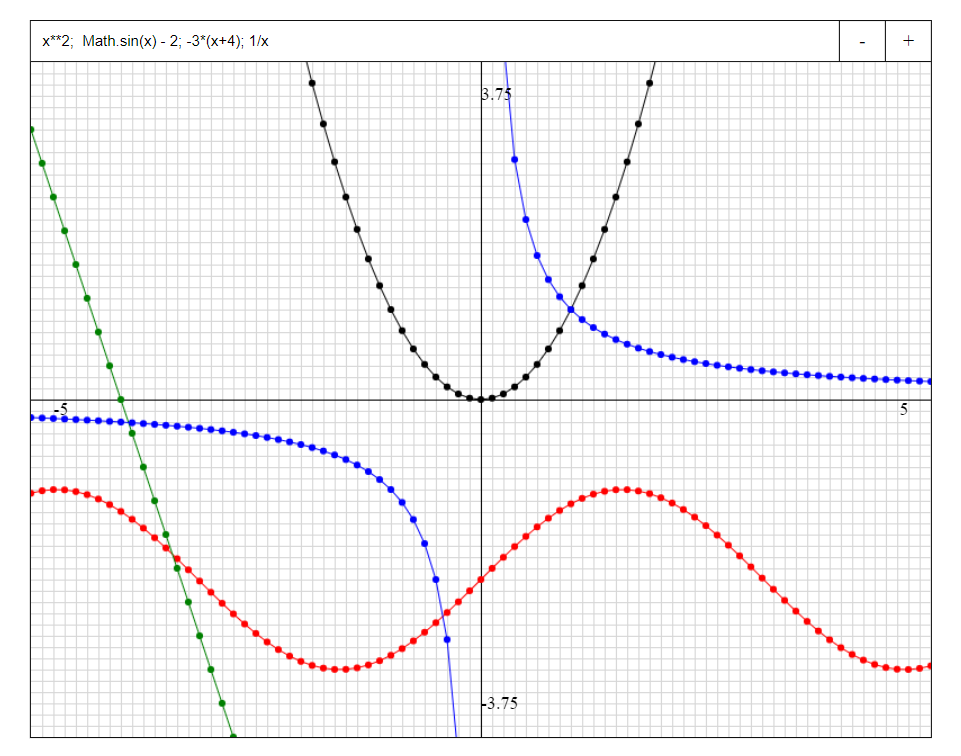
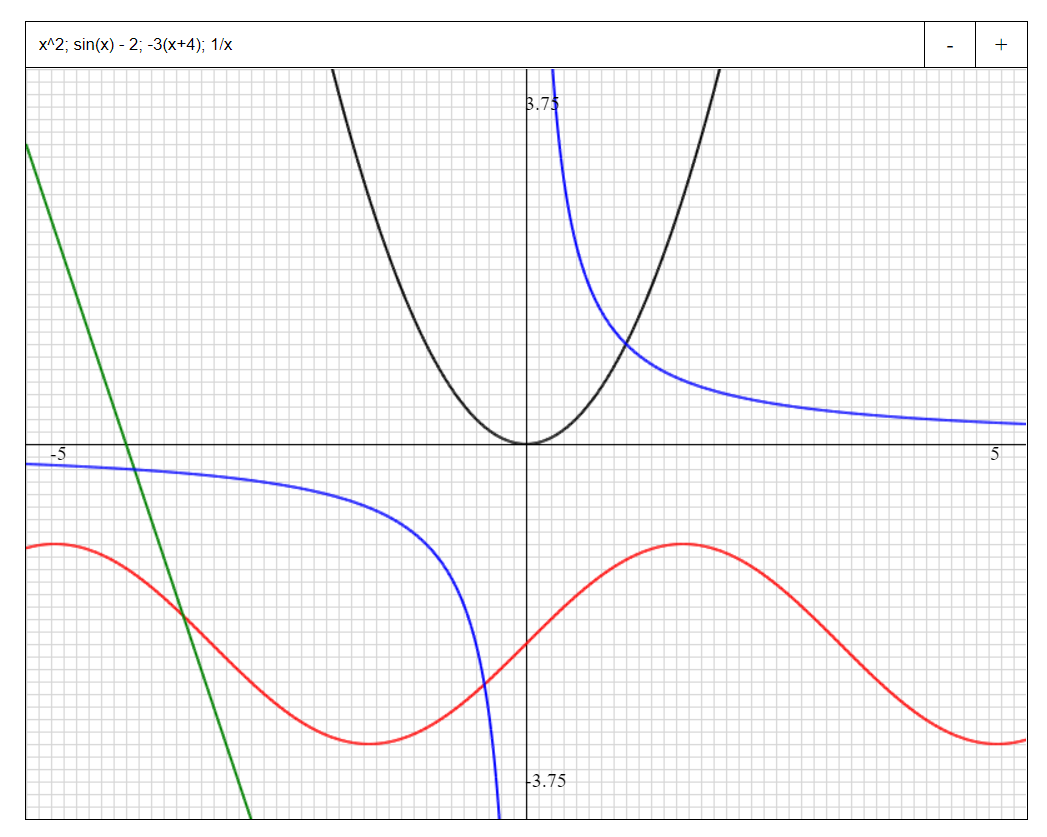
Update layout and functions.png

Changed region(s): [[0.0, 0.0304, 0.999, 1.0], [0.9677, 0.1521, 0.999, 0.3347]]

diff --git a/js/grapher.js b/js/grapher.js
@@ -2,8 +2,9 @@ class Grapher {
     constructor (params = {}) {
         // Parent element
         this.parent = params.parent
-        this.height = params.height
+        this.height = params.height 
         this.width = params.width
+        console.log(this.width, this.height)
         // DOM elements
         this.create()
         this.input = document.getElementById(`${this.parent.id}-input`)
@@ -19,7 +20,7 @@ class Grapher {
         // Graph properties
         this.box_size = 10
         this.x_range = { min: -10, max: 10 }
-        this.y_range = { min: -10, max: 10 }
+        this.y_range = { min: -10 * (this.height / this.width), max: 10 * (this.height / this.width) }
         this.function_intervals = 1000
         this.field_intervals = 20
         this.slope_intervals = { x: this.width / this.field_intervals, y: this.height / this.field_intervals }
@@ -59,8 +60,8 @@ class Grapher {
         // Graph
         const graph = document.createElement("div")
         graph.className = "grapher-graph"
-        graph.style.height = this.height
-        graph.style.width = this.width
+        graph.style.height = `${this.height}px`
+        graph.style.width = `${this.width}px`
         // Canvas
         const canvas = document.createElement("canvas")
         canvas.className = "grapher-canvas"

diff --git a/index.html b/index.html
@@ -5,11 +5,12 @@
 	<meta charset="utf-8">
 	<meta name="viewport" content="width=device-width">
 	<title>Grapher</title>
-	<link href="style.css" rel="stylesheet" type="text/css" />
+    <link href="/css/grapher.css" rel="stylesheet" type="text/css" />
+	<link href="/css/main.css" rel="stylesheet" type="text/css" />
     <script src = "/lib/math.js"></script>
-    <script src="utility.js"></script>
-    <script src="grapher.js"></script>
-    <script src="main.js"></script>
+    <script src="/js/utility.js"></script>
+    <script src="/js/grapher.js"></script>
+    <script src="/js/main.js"></script>
 </head>
 
 <body>

diff --git a/js/main.js b/js/main.js
@@ -2,11 +2,11 @@ document.addEventListener("DOMContentLoaded", () => {
     const graph_1 = new Grapher({
         parent: document.getElementById("graph-1"),
         height: 600,
-        width: 800,
+        width: 800
     })
     graph_1.setInput("cos(x)/x")
-    graph_1.setRange("x_range", { min: -10, max: 10 })
-    graph_1.setRange("y_range", { min: -7.5, max: 7.5 })
+    // graph_1.setRange("x_range", { min: -10, max: 10 })
+    // graph_1.setRange("y_range", { min: -7.5, max: 7.5 })
     // const graph_2 = new Grapher({
     //     parent: document.getElementById("graph-2"),
     //     height: 400,

diff --git a/css/grapher.css b/css/grapher.css
@@ -1,12 +1,3 @@
-* {
-    border: none;
-    outline: none;
-}
-
-body {
-    overflow: hidden;
-}
-
 #container {
     position: absolute;
     top: 50vh;
@@ -14,10 +5,6 @@ body {
     transform: translate(-50%, -50%);
     display: flex;
     align-items: center;
-}
-
-#graph-1, #graph-2, #graph-3 {
-    margin: 20px;
 }
 
 .grapher {

diff --git a/css/main.css b/css/main.css
@@ -1,0 +1,12 @@
+* {
+    border: none;
+    outline: none;
+}
+
+body {
+    overflow: hidden;
+}
+
+#graph-1, #graph-2, #graph-3 {
+    margin: 20px;
+}
